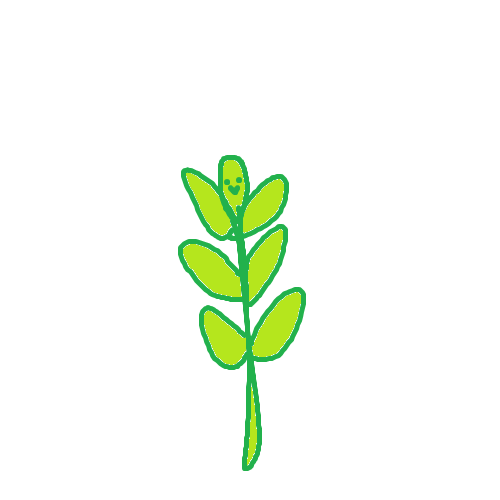
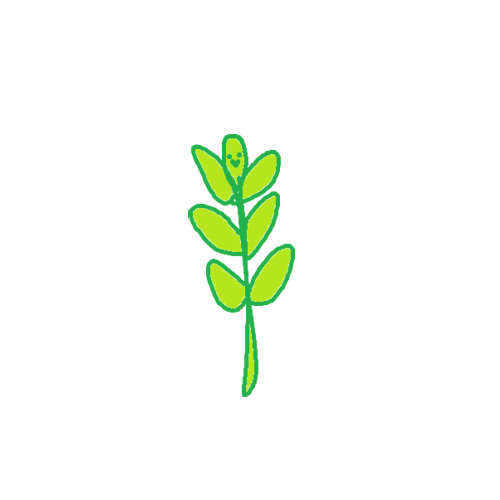
edited lavender file positions

Changed region(s): [[0.36, 0.27, 0.63, 0.96]]

diff --git a/garden1.css b/garden1.css
@@ -26,7 +26,7 @@
   }
   #lavender_seed {
     position: absolute;
-    top: 30%; 
+    top: 15%; 
     left: 10%; 
     width: 30%;
   }
